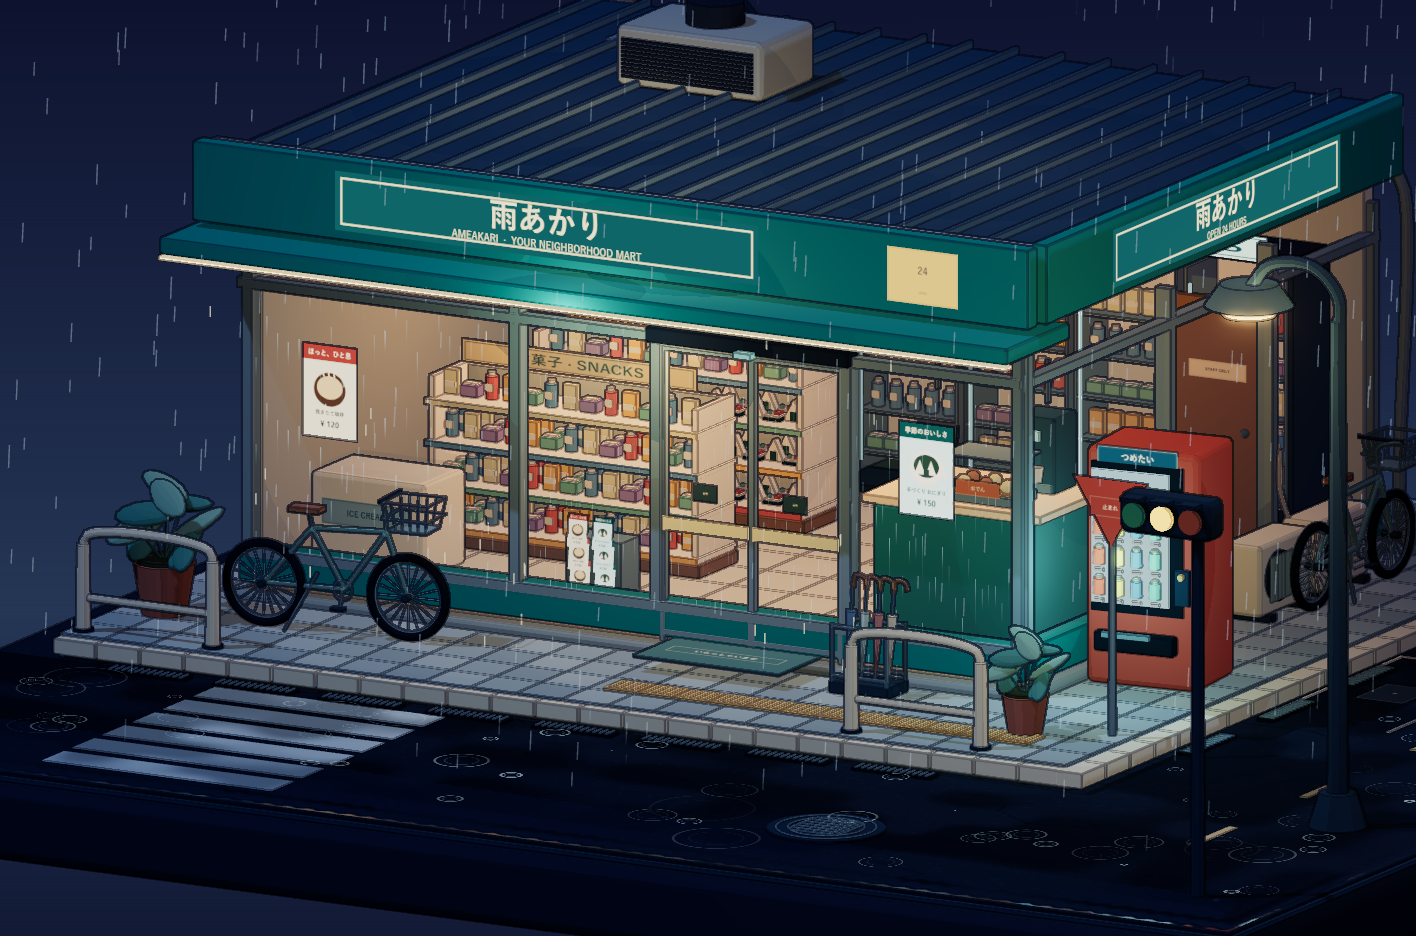
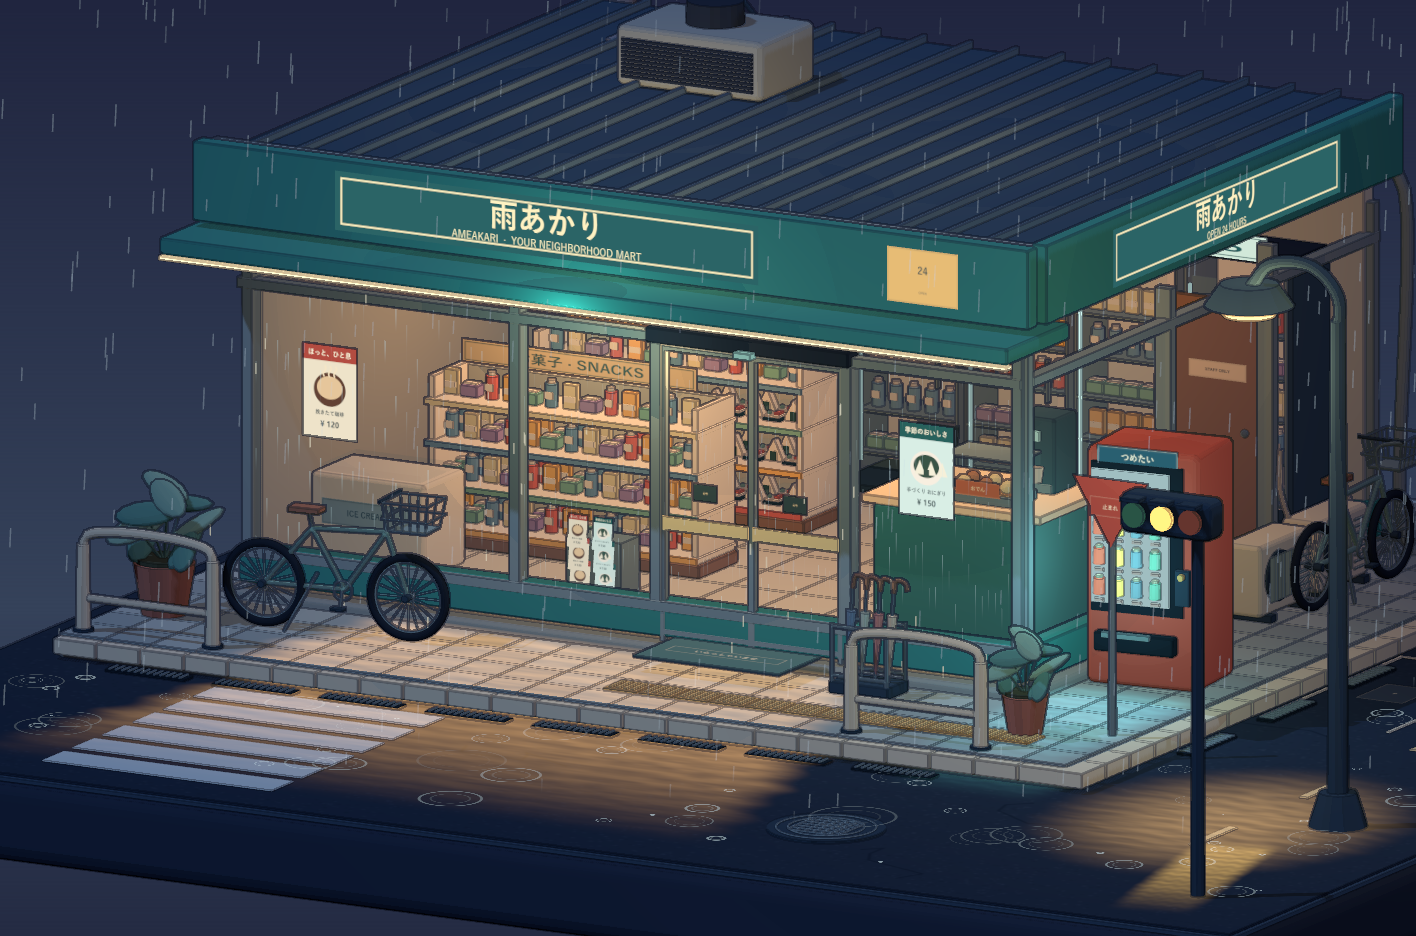
[codex] X-50 paint-warm-and-cool-rain-reflections

diff --git a/apps/desktop/e2e/fixtures/rainy-konbini/weather.js b/apps/desktop/e2e/fixtures/rainy-konbini/weather.js
@@ -1,5 +1,5 @@
 import * as T from 'three';
-import { Reflector } from 'three/addons/objects/Reflector.js';
+import { paintedLightPools } from './light-pools.js';
 
 export function weather(scene,c,shop) {
   let seed=281;const random=()=>((seed=(seed*1664525+1013904223)>>>0)/4294967296);
@@ -15,23 +15,7 @@ export function weather(scene,c,shop) {
     vertexShader:`attribute float phase;uniform float time;varying float vHeight;void main(){vec3 p=position;float h=mod(phase*9.0-time*5.2,9.0);p.y+=h;p.x+=p.y*.045;vHeight=p.y;gl_Position=projectionMatrix*modelViewMatrix*vec4(p,1.0);}`,
     fragmentShader:`varying float vHeight;void main(){float a=.17*smoothstep(.07,.4,vHeight)*(1.-smoothstep(5.,8.,vHeight));gl_FragColor=vec4(.50,.64,.77,a);}`
   }));rain.name='continuous-rain';rain.frustumCulled=false;scene.add(rain);
-  // A single reflected view, broken into shallow wet patches and gently distorted.
-  const reflectionShader={
-    uniforms:{...Reflector.ReflectorShader.uniforms,time},
-    vertexShader:`uniform mat4 textureMatrix;varying vec4 vReflect;varying vec3 vWorld;void main(){vReflect=textureMatrix*vec4(position,1.);vWorld=(modelMatrix*vec4(position,1.)).xyz;gl_Position=projectionMatrix*modelViewMatrix*vec4(position,1.);}`,
-    fragmentShader:`uniform sampler2D tDiffuse;uniform vec3 color;uniform float time;varying vec4 vReflect;varying vec3 vWorld;
-      float hash(vec2 p){return fract(sin(dot(p,vec2(127.1,311.7)))*43758.5453);}
-      float noise(vec2 p){vec2 i=floor(p),f=fract(p);f=f*f*(3.-2.*f);return mix(mix(hash(i),hash(i+vec2(1,0)),f.x),mix(hash(i+vec2(0,1)),hash(i+vec2(1,1)),f.x),f.y);}
-      void main(){if(vWorld.z<3.25&&vWorld.x<3.49)discard;vec2 uv=vReflect.xy/vReflect.w;
-      float n=noise(vWorld.xz*1.8);float wetArea=smoothstep(.25,.68,n);vec2 ripple=vec2(sin(vWorld.z*48.+time*2.6),cos(vWorld.x*32.+time*1.7))*.0007;
-      vec3 reflected=texture2D(tDiffuse,uv+ripple).rgb*.5+texture2D(tDiffuse,uv+ripple+vec2(.0015,.0006)).rgb*.25+texture2D(tDiffuse,uv+ripple-vec2(.0015,.0006)).rgb*.25;
-      gl_FragColor=vec4(reflected*vec3(.80,.90,1.),.15+.45*wetArea);
-      #include <tonemapping_fragment>
-      #include <colorspace_fragment>
-      }`
-  };
-  const wet=new Reflector(new T.PlaneGeometry(13.84,13.84),{textureWidth:1024,textureHeight:1024,multisample:0,clipBias:.003,shader:reflectionShader,color:0xffffff});
-  wet.name='wet-asphalt-reflections';wet.rotation.x=-Math.PI/2;wet.position.y=.072;wet.material.transparent=true;wet.material.depthWrite=false;wet.renderOrder=1;scene.add(wet);
+  const ground=paintedLightPools(scene,time);
   // Expanding circles are surface ripples, not a screen overlay.
   const rippleMaterial=new T.ShaderMaterial({uniforms:{time},transparent:true,depthWrite:false,side:T.DoubleSide,
     vertexShader:`attribute float phase;varying vec2 vUv;varying float vPhase;void main(){vUv=uv;vPhase=phase;gl_Position=projectionMatrix*modelViewMatrix*instanceMatrix*vec4(position,1.);}`,
@@ -54,5 +38,5 @@ export function weather(scene,c,shop) {
   const streaks=new T.Group();streaks.name='glass-rain-trails';scene.add(streaks);
   for(const [x,w]of[[-4.34,2.47],[-2.38,1.20],[.95,1.52]]){const pane=new T.Mesh(new T.PlaneGeometry(w,2.25),streakMaterial);pane.position.set(x,1.83,1.28);pane.renderOrder=3;streaks.add(pane);}
   for(const leaf of [shop.doorLeft,shop.doorRight]){const pane=new T.Mesh(new T.PlaneGeometry(.82,2.25),streakMaterial);pane.position.set(0,1.47,.045);pane.renderOrder=3;leaf.add(pane);}
-  return {rain,wet,ripples,drips,streaks,update(t){time.value=t;wet.material.uniforms.time.value=t;}};
+  return {rain,ground,ripples,drips,streaks,update(t,signalColor){time.value=t;ground.signal.value.copy(signalColor);}};
 }

diff --git a/apps/desktop/e2e/fixtures/rainy-konbini/main.js b/apps/desktop/e2e/fixtures/rainy-konbini/main.js
@@ -14,7 +14,7 @@ const scene=new T.Scene();scene.fog=new T.Fog('#263348',30,68);
 const renderer=new T.WebGLRenderer({antialias:true,powerPreference:'high-performance'});
 renderer.setPixelRatio(Math.min(devicePixelRatio,1.5));renderer.setSize(innerWidth,innerHeight);
 renderer.shadowMap.enabled=true;renderer.shadowMap.type=T.PCFSoftShadowMap;
-renderer.toneMapping=T.ACESFilmicToneMapping;renderer.toneMappingExposure=1.02;
+renderer.toneMapping=T.NoToneMapping;
 renderer.outputColorSpace=T.SRGBColorSpace;document.body.appendChild(renderer.domElement);
 const camera=new T.OrthographicCamera(-10,10,9,-9,.1,100);camera.position.set(18,14,22);camera.zoom=1.1;
 const controls=new OrbitControls(camera,renderer.domElement);controls.target.set(0,2.30,0);controls.enableDamping=true;controls.dampingFactor=.075;
@@ -30,22 +30,23 @@ const statistics=c.batchStatic(),effects=weather(scene,c,shop);
 const bounds=new T.Box3().setFromObject(c.root);
 const target=new T.WebGLRenderTarget(innerWidth,innerHeight,{samples:4,type:T.HalfFloatType});
 const composer=new EffectComposer(renderer,target);composer.addPass(new RenderPass(scene,camera));
-const bloom=new UnrealBloomPass(new T.Vector2(innerWidth,innerHeight),.16,.32,1.25);composer.addPass(bloom);
+const bloom=new UnrealBloomPass(new T.Vector2(innerWidth,innerHeight),.09,.22,1.60);composer.addPass(bloom);
 const outline=new ToonOutlinePass(scene,camera);composer.addPass(outline);composer.addPass(new OutputPass());
 const resize=()=>{const aspect=innerWidth/innerHeight;camera.left=-9*aspect;camera.right=9*aspect;camera.top=9;camera.bottom=-9;camera.updateProjectionMatrix();renderer.setSize(innerWidth,innerHeight);composer.setSize(innerWidth,innerHeight);};resize();addEventListener('resize',resize);
-let start=performance.now(),previous=start,frame=0;const frameTimes=[];
+let start,previous,frame=0;const frameTimes=[];
 const audit={ready:false,scene,camera,controls,renderer,outline,statistics,features:c.features,bounds:{min:bounds.min.toArray(),max:bounds.max.toArray()},effects,shop,street,elapsed:0,frameTimes,errors:[]};
 window.rainyKonbini=audit;
 addEventListener('error',e=>audit.errors.push(e.message));addEventListener('unhandledrejection',e=>audit.errors.push(String(e.reason)));
 const colors=[new T.Color('#69c5a4'),new T.Color('#ebbe65'),new T.Color('#e88173')];
 function animate(now){
+  if(start===undefined){start=now;previous=now;}
   const t=(now-start)/1000,dt=now-previous;previous=now;if(frame++>15){frameTimes.push(dt);if(frameTimes.length>900)frameTimes.shift();}
-  effects.update(t);
   // Periodic maintenance opening: no invisible person is needed in this empty diorama.
   const phase=t%26;let open=0;if(phase>12&&phase<14)open=T.MathUtils.smoothstep(phase,12,14);else if(phase>=14&&phase<17)open=1;else if(phase>=17&&phase<19)open=1-T.MathUtils.smoothstep(phase,17,19);
   shop.doorLeft.position.x=-.43-open*.78;shop.doorRight.position.x=.43+open*.78;
   shop.signLight.intensity=2.6*(.97+.025*Math.sin(t*.71)+(t%19>18.85?-.06:0));
   const state=Math.floor(t/8)%3;street.signalMats.forEach((mat,i)=>mat.color.copy(colors[i]).multiplyScalar(i===state?1.8:.16));
+  effects.update(t,street.signalMats[state].color);
   controls.update();renderer.info.reset();composer.render();audit.ready=true;audit.elapsed=t;audit.doorOpening=open;requestAnimationFrame(animate);
 }
 renderer.info.autoReset=false;requestAnimationFrame(animate);

diff --git a/apps/desktop/e2e/fixtures/rainy-konbini/light-pools.js b/apps/desktop/e2e/fixtures/rainy-konbini/light-pools.js
@@ -1,0 +1,60 @@
+import * as T from 'three';
+
+// Painted light belongs to the ground plane, not to bloom or a reflected camera.
+// Separate road/sidewalk receivers preserve the kerb height and remain occluded
+// by bikes, railings and paving details in the regular depth buffer.
+export function paintedLightPools(scene, time) {
+  const group = new T.Group(); group.name = 'painted-rain-light'; scene.add(group);
+  const vertexShader = `varying vec2 vUv; varying vec3 vWorld; void main(){
+    vUv=uv; vWorld=(modelMatrix*vec4(position,1.)).xyz;
+    gl_Position=projectionMatrix*modelViewMatrix*vec4(position,1.);
+  }`;
+  const fragmentShader = `
+    uniform float time,strength,shape,sidewalk; uniform vec3 tint;
+    varying vec2 vUv; varying vec3 vWorld;
+    float hash(vec2 p){return fract(sin(dot(p,vec2(127.1,311.7)))*43758.5453);}
+    float noise(vec2 p){vec2 i=floor(p),f=fract(p);f=f*f*(3.-2.*f);
+      return mix(mix(hash(i),hash(i+vec2(1,0)),f.x),mix(hash(i+vec2(0,1)),hash(i+vec2(1,1)),f.x),f.y);}
+    void main(){
+      if(abs(vWorld.x)>6.91||abs(vWorld.z)>6.91)discard;
+      bool onPaving=vWorld.x>-6.4&&vWorld.x<3.3&&vWorld.z>-6.525&&vWorld.z<3.125;
+      if(onPaving!=(sidewalk>.5))discard;
+      vec2 q=vec2(vUv.x*2.-1.,1.-vUv.y);
+      q.x+=sin(q.y*63.+time*1.3)*.012+sin(q.y*29.-time*.7)*.009;
+      float mask;
+      if(shape<.5){
+        float width=.64+.32*q.y;
+        mask=(1.-smoothstep(width-.15,width,abs(q.x)))*smoothstep(0.,.09,q.y)*(1.-smoothstep(.20,1.,q.y));
+      }else if(shape<1.5){
+        mask=1.-smoothstep(.12,1.,length(vec2(q.x,(q.y-.5)*2.)));
+      }else{
+        mask=(1.-smoothstep(.52,1.,abs(q.x)))*smoothstep(0.,.13,q.y)*(1.-smoothstep(.35,1.,q.y));
+      }
+      float brush=.66+.24*noise(vec2(vWorld.x*5.,vWorld.z*19.+sin(time*.5)*.10));
+      float sheen=.88+.12*sin(q.y*110.+sin(q.x*19.)*.8+time*.65);
+      gl_FragColor=vec4(tint,strength*mask*brush*sheen);
+    }
+  `;
+  const pools = [];
+  function pool(name,x,z,width,length,color,strength,shape,heading=0) {
+    const tint = {value:new T.Color(color)};
+    const geometry = new T.PlaneGeometry(width,length);
+    for(const sidewalk of [0,1]) {
+      const material=new T.ShaderMaterial({
+        uniforms:{time,tint,strength:{value:strength},shape:{value:shape},sidewalk:{value:sidewalk}},
+        vertexShader,fragmentShader,transparent:true,depthWrite:false,blending:T.AdditiveBlending
+      });
+      const mesh=new T.Mesh(geometry,material);
+      mesh.name=name+(sidewalk?'-pavement':'-road');
+      mesh.rotation.order='YXZ';mesh.rotation.set(-Math.PI/2,heading,0);
+      mesh.position.set(x,sidewalk?.277:.075,z);mesh.renderOrder=2;group.add(mesh);
+    }
+    pools.push({name,x,z,width,length});
+    return tint;
+  }
+  pool('shop-amber-fan',-1.90,3.86,7.8,5.3,'#f8bd75',.66,0);
+  pool('streetlamp-warm-pool',5.03,3.55,3.35,4.2,'#f3c17c',.52,1);
+  pool('vending-cyan-reflection',2.54,2.20,1.65,3.3,'#6acbd5',.54,2);
+  const signal=pool('signal-changing-streak',5.75,5.40,.82,2.65,'#69c5a4',.32,2,.20);
+  return {group,pools,signal,time};
+}

diff --git a/apps/desktop/e2e/fixtures/rainy-konbini/craft.js b/apps/desktop/e2e/fixtures/rainy-konbini/craft.js
@@ -6,7 +6,7 @@ import { mergeGeometries } from 'three/addons/utils/BufferGeometryUtils.js';
 export function craft(scene) {
   const root = new T.Group(); root.name = 'ameakari-diorama'; scene.add(root);
   const features = {}, materials = new Map(), geometries = new Map();
-  const bands = new T.DataTexture(new Uint8Array([55, 105, 175, 255]), 4, 1, T.RedFormat);
+  const bands = new T.DataTexture(new Uint8Array([40, 90, 150, 230, 255]), 5, 1, T.RedFormat);
   bands.minFilter = bands.magFilter = T.NearestFilter; bands.needsUpdate = true;
   function toon(color, emission = 0) {
     const key = `${color}/${emission}`;

diff --git a/docs/design/World-rainy-konbini.md b/docs/design/World-rainy-konbini.md
@@ -8,7 +8,7 @@
 
 协作只在 GitHub 进行。C酱已在 [#253 第一轮评审](https://github.com/aa15119557034/agent-review-room/pull/253#issuecomment-6914180828) 提出建模指导；江浩指定先做 1～3，四机位逐步对比后交 C酱复审，4～7 暂不实施。
 
-第二轮进度：第 1 项已将旧 `EdgesGeometry` 改为深度＋法线屏幕空间描边，1080p 标称约 1.8px，统一深靛色，透明玻璃和雨水不参与描线。下方四张静帧已更新到该阶段；性能报告及录像暂仍对应第一轮，完成 1～3 后统一重跑更新。
+第二轮进度：第 1 项已将旧 `EdgesGeometry` 改为深度＋法线屏幕空间描边，1080p 标称约 1.8px，统一深靛色，透明玻璃和雨水不参与描线。第 2 项改为五级明暗、`NoToneMapping` 和四处手绘地面光斑／倒影，并移除整场 `Reflector` 渲染。下方四张静帧已更新到该阶段；性能报告及录像暂仍对应第一轮，完成 1～3 后统一重跑更新。
 
 样板是 `apps/desktop/e2e/fixtures/rainy-konbini/` 中的独立 Three.js 场景，复用 #246 的既有 Three.js 0.187.0、Vite 和 Electron 依赖。因此 PR 叠在 `codex/X-45-world-3d` 上；现有共享小屋的未提交美术改动原样保留。本次没有改世界规则、存档、IPC、模型节点或生产页面入口。
 
@@ -17,7 +17,7 @@
 - 14 × 14 的完整正方形底座，前侧与右侧街道组成街角，后侧留有装卸窄巷。
 - 便利店的大玻璃后有实际货架、饮料冷柜、便当／饭团／零食、收银台、咖啡机、关东煮柜、杂志架、冰柜、后场门、地面导视与灯箱。
 - 街道包含自动贩卖机、两辆自行车、伞架、分类桶、路灯、电杆与下垂电线、路牌、护栏、停车位、排水沟、井盖、斑马线、公告栏、空调外机、配送筐和花盆。旋转到背面可见装卸门、磨砂窗、电表箱与线管。
-- 四级明暗的 toon 材质加深度／法线轮廓线；干净的贴图和原创招牌。室内琥珀灯光、室外蓝紫夜色、玻璃、局部积水反射及克制的泛光。
+- 五级明暗的 toon 材质加深度／法线轮廓线；干净的贴图和原创招牌。室内琥珀灯光、室外蓝紫夜色、玻璃，以及店面琥珀扇形、路灯暖色、贩卖机青色和交通灯变色的地面光斑。手绘光带有轻微噪声／水纹扰动；分开覆盖路面与人行道，仍受实体物体遮挡，泛光克制。
 - 持续雨、檐口滴水、积水涟漪、玻璃雨痕、招牌照明轻微变化、交通灯变化；自动门每 26 秒完成一次维护开合。门上的雨痕随门片移动。
 - 左键拖拽旋转；右键拖拽平移；滚轮缩放。场景内没有按钮、说明文字或调试面板；招牌、海报和交通标识是场景物体。
 
